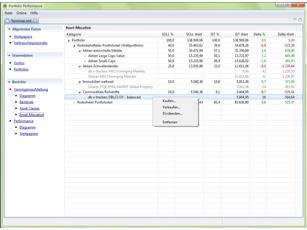
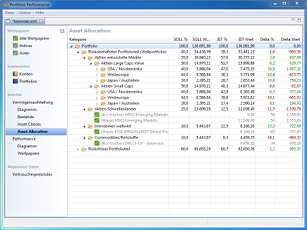
Update to version 0.6.0

diff --git a/new_and_noteworthy.html b/new_and_noteworthy.html
@@ -17,6 +17,46 @@
 
 <p>Hier eine Liste mit den grösseren und interessanteren Änderungen im <a href="index.html">Programm</a>.</p>
 
+<h2>Version 0.6.0 (17. Juni 2012)</h2>
+
+
+<table class="news">
+<tbody>
+<tr>
+<td class="title">Zusätzliche Spalten</td>
+<td class="content">In der Vermögensaufstellung kann man zusätzliche Spalten hinzufügen:
+<strong>ISIN, Einstandskurs, Einstandswert und Gewinn/Verlust</strong>
+<p><img src="images/nn_hide_show_columns.png" alt="Spalten hinzufügen" width="542" height="256"/></p>
+<p>Mit den zusätzlichen Spalten kann man die Vermögensaufstellung an die eigenen Bedürfnisse
+anpassen. Per <strong>Drag &amp; Drop</strong> kann die Reihenfolge der Spalten geändert werden. Alle diese
+Änderungen werden gespeichert damit die Ansicht beim nächsten Öffnen genauso wieder aussieht.</p>
+</td>
+</tr>
+
+<tr>
+<td class="title">Suchen</td>
+<td class="content">In der Liste der Wertpapiere kann man jetzt suchen:
+<p><img src="images/nn_search.png" alt="Suche in Wertpapieren" width="542" height="105"/></p>
+<p>Durchsucht werden Bezeichnung, ISIN und das Ticker Symbol.</p>
+</td>
+</tr>
+
+<tr>
+<td class="title">Watchlisten</td>
+<td class="content">Zur besseren Übersicht kann man Watchlisten in der Seitenleiste anlegen:
+<p><img src="images/nn_watchlist_create.png" alt="Tab in der Tabelle" width="542" height="167"/></p>
+<p>Die Wertpapiere kann man per Drag &amp; Drop aus der Wertpapierliste in die Watchliste einfügen:</p>
+<p><img src="images/nn_watchlist_dnd.png" alt="Tab in der Tabelle" width="542" height="149"/></p>
+<p>Das funktioniert auch zwischen zwei Dateien, die gleichzeitig geöffnet sind:</p>
+<p><img src="images/nn_watchlist_cross_file_dnd.png" alt="Tab in der Tabelle" width="542" height="180"/></p>
+</td>
+</tr>
+
+</tbody>
+</table>
+
+
+
 <h2>Version 0.5.4 (20. Mai 2012)</h2>
 
 
@@ -38,7 +78,7 @@ welches Feld sie abgebildet werden sollen.</p>
 <p><img src="images/shot_buy_fractions.png" alt="Bruchteile beim Wertpapierkauf" width="542" height="401"/></p>
 <p>Jetzt können Bruchteile von Wertpapieren gekauft werden und so zum Beispiel Sparpläne abgebildet werden.</p>
 <p>Das Programm rechnet mit einer Genauigkeit von 5 Nachkommastellen. Um die Übersichtlichkeit zu wahren,
-werden in der Übersicht meist auf 3 Nachkommastellen gerundet.</p>
+wird der Bestand in der Übersicht auf 3 Nachkommastellen gerundet.</p>
 </td>
 </tr>
 

diff --git a/index.html b/index.html
@@ -29,15 +29,15 @@
 inklusive internen Zinsfuß.</p>
 
 <p><ul>
-<li><a href="https://github.com/downloads/buchen/portfolio/PortfolioPerformance-0.5.4-win32.win32.x86.zip">Windows 32bit</a> / 
-<a href="https://github.com/downloads/buchen/portfolio/PortfolioPerformance-0.5.4-win32.win32.x86_64.zip">64bit</a>
-<li><a href="https://github.com/downloads/buchen/portfolio/PortfolioPerformance-0.5.4-macosx.cocoa.x86_64.tar.gz">Mac OS X</a>
-<li><a href="https://github.com/downloads/buchen/portfolio/PortfolioPerformance-0.5.4-linux.gtk.x86.tar.gz">Linux 32bit </a> /
-<a href="https://github.com/downloads/buchen/portfolio/PortfolioPerformance-0.5.4-linux.gtk.x86_64.tar.gz">64bit</a>
+<li><a href="https://github.com/downloads/buchen/portfolio/PortfolioPerformance-0.6.0-win32.win32.x86.zip">Windows 32bit</a> / 
+<a href="https://github.com/downloads/buchen/portfolio/PortfolioPerformance-0.6.0-win32.win32.x86_64.zip">64bit</a>
+<li><a href="https://github.com/downloads/buchen/portfolio/PortfolioPerformance-0.6.0-macosx.cocoa.x86_64.tar.gz">Mac OS X</a>
+<li><a href="https://github.com/downloads/buchen/portfolio/PortfolioPerformance-0.6.0-linux.gtk.x86.tar.gz">Linux 32bit </a> /
+<a href="https://github.com/downloads/buchen/portfolio/PortfolioPerformance-0.6.0-linux.gtk.x86_64.tar.gz">64bit</a>
 </ul>
 </p>
 
-Aktuelle Version 0.5.4 - <a href="new_and_noteworthy.html">was ist neu?</a>
+Aktuelle Version 0.6.0 - <a href="new_and_noteworthy.html">was ist neu?</a>
 
 <h2>Features</h2>
 
@@ -141,6 +141,15 @@ Aktuelle Version 0.5.4 - <a href="new_and_noteworthy.html">was ist neu?</a>
 
 <div id="versions">
 <a href="new_and_noteworthy.html">Was ist neu?</a>
+
+<h3>0.6.0 / 17. Juni 2012</h3>
+<ul>
+	<li>Watchlisten: bessere Übersicht über die Wertpapiere</li>
+	<li>Suche in Wertpapieren</li>
+	<li>Konfigurierbare Spalten in der Vermögensübersicht: ISIN, Einstandspreis, Einstandswert und Gewinn/Verlust</li>
+	<li>Beispieldatei 'kommer.xml' aktualisiert</li>
+	<li>Navigationsleiste verbessert</li>
+</ul>
 
 <h3>0.5.4 / 20. Mai 2012</h3>
 <ul>

diff --git a/css/styles.css b/css/styles.css
@@ -1,6 +1,7 @@
 body {
 font-family: "Lucida Grande", "Lucida Sans Unicode", Helvetica, Arial, Verdana, sans-serif;
 background: #E5E5E5;
+font-size: small;
 }
 
 #content {
@@ -39,10 +40,6 @@ margin-bottom: 10px;
 width: 340px;
 float: left;
 margin-bottom: 10px;
-}
-
-#versions {
-font-size: 0.7em;
 }
 
 .news {
